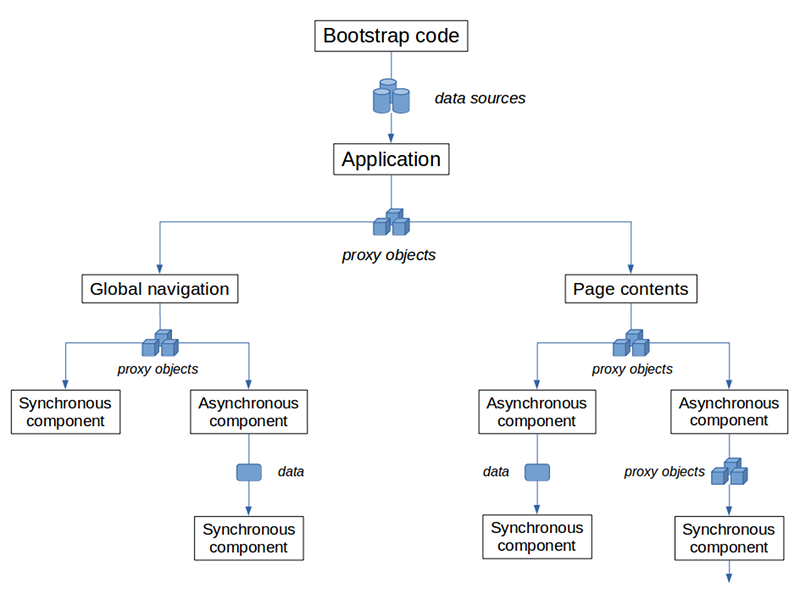
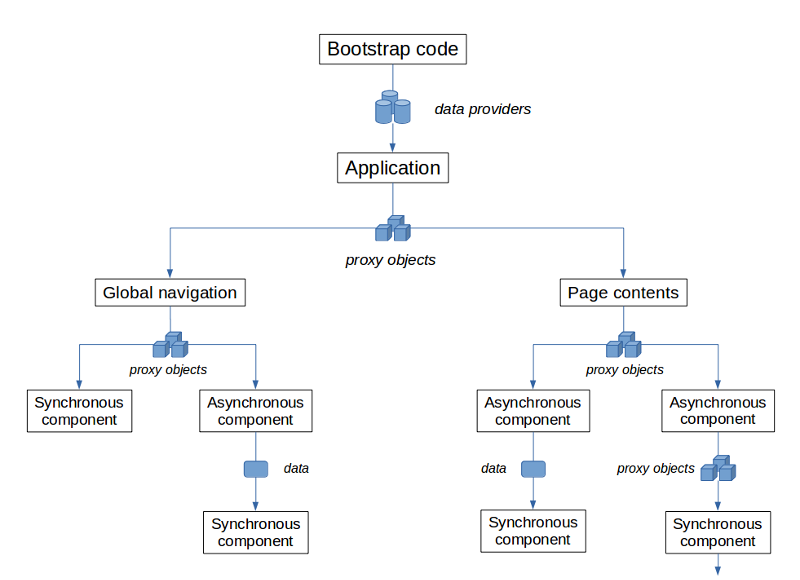
Changed "data source" to "data provider". Fixed typos and rephrased awkward sentences.

Changed region(s): [[0.0938, 0.031, 0.8125, 0.9621], [0.5938, 0.4345, 1.0, 0.9931], [0.0, 0.6207, 0.1562, 0.7448]]

diff --git a/README.md b/README.md
@@ -220,17 +220,17 @@ When there is no support for error boundaries (Preact, React 15 and below), Rela
 
 ## Building a full application
 
-Relaks is a simple, unopinionated component that can be used in a variety of situations. The following is a suggest model on how to build a complete application.
+Relaks is a simple, unopinionated component that can be used in a variety of situations. The following is a suggested model on how to build a complete application.
 
 ![Relaks model](docs/img/relaks-model.png)
 
 ### Bootstrapping
 
-The **Bootstrap code** is responsible for kick-starting the application. It's run right after the HTML page has loaded. It creates data sources, wait for them to become ready, then render the root React component into a DOM node. Here's the bootstrap code from [one of the example apps](https://github.com/chung-leong/relaks-starwars-example-sequel):
+Bootstrap code kick-starts an application. It's run right after the HTML page has loaded. It creates data providers, wait for them to become ready, then render the root React component into a DOM node. Here's the bootstrap code from [one of the example apps](https://github.com/chung-leong/relaks-starwars-example-sequel):
 
 ```javascript
 async function initialize(evt) {
-    // create data source
+    // create remote data source
     let dataSource = new DjangoDataSource({
         baseURL: 'https://swapi.co/api',
     });
@@ -254,21 +254,21 @@ async function initialize(evt) {
 }
 ```
 
-For an example of a more elaborate bootstrap sequence, see [app-core.js](https://github.com/chung-leong/trambar/blob/master/common/src/app-core.js) of the [Trambar](https://trambar.io) source code. The code does not merely create the data sources, it also handles interactions between them. Basically, it creates the infrastructure needed by the React UI code.
+For an example of a more elaborate bootstrap sequence, see [app-core.js](https://github.com/chung-leong/trambar/blob/master/common/src/app-core.js) of the [Trambar](https://trambar.io) source code. The code does not merely initialize the data providers, it also handles interactions between them. Basically, it's responsible for the infrastructure needed by the React UI code.
 
-### Data sources
+### Data providers
 
-A data source is simply an object that provides data needed by the app. It can do so synchronously or asynchronously (i.e. through promise-returning methods). It'll typically be an event emitter. When a data source wishes to indicate that new data is available, it'll emit a `change` event.
+A data provider is simply an object that provides data needed by the app. It can do so synchronously or asynchronously (i.e. through promise-returning methods). It'll typically be an event emitter. When a provider wishes to indicate that new data is available, it'll emit a `change` event.
 
-An example of a synchronous data source is [relaks-route-manager](https://github.com/chung-leong/relaks-route-manager). It extracts parameters from the browser's location. When the user clicks on a hyperlink or the back button, the current route changes. The route manager emits a `change` event and the application rerenders using new parameters extracted from the URL.
+An example of a synchronous data provider is [relaks-route-manager](https://github.com/chung-leong/relaks-route-manager). It extracts parameters from the browser's location. When the user clicks on a hyperlink or the back button, the current route changes. The route manager emits a `change` event and the application rerenders using new parameters extracted from the URL.
 
-An example of an asynchronous data source is [relaks-django-data-source](https://github.com/chung-leong/relaks-django-data-source). It retrieves data from a Django backend. It provides a set of `fetchXXX()` methods that return promises. When given an expiration interval, the data source will periodically invalidate cached results and emit a `change` event.
+An example of an asynchronous data provider is [relaks-django-data-source](https://github.com/chung-leong/relaks-django-data-source). It retrieves data from a Django backend. It provides a set of `fetchXXX()` methods that return promises. When given an expiration interval, the data source will periodically invalidate cached results and emit a `change` event.
 
-Data sources need not be coded specifically for Relaks. They're just classes that return data. They can be reused in other contexts (on the server side, for instance). The only requirement imposed by Relaks is the need for caching. Asynchronous methods should always return the same promise when give the same parameters unless the underlying data has changed. Otherwise a lot of redundant operations would occur every time the app rerenders.
+Data providers need not be coded specifically for Relaks. They're just classes that return data. They can be reused in other contexts (on the server side, for instance). The only requirement imposed by Relaks is the need for caching. Asynchronous methods should always return the same promise when give the same parameters unless the underlying data has changed. Otherwise a lot of redundant operations would occur whenever the app rerenders.
 
 ### Root-level component
 
-`Application` is the root-level React component. It receives a set of data sources as props. In its constructor, it creates proxy objects around the data source objects and save them into its state. These are then pass down the component tree in `render()` in lieu of the data sources themselves. In `componentDidMount()`, `Application` attaches event handlers to the data sources. When it receives a `change` event, it recreates the corresponding proxy. The call to `setState()` triggers rerendering. The `renderAsync()` methods of Relaks components are invoked, which in turn pulls in up-to-date data.
+`Application` is the root-level React component. It receives a set of data providers as props. In its constructor, it creates proxy objects around the data provider objects and save them into its state. These are then pass down the component tree in `render()` in lieu of the providers themselves. In `componentDidMount()`, `Application` attaches event handlers to the providers. When it receives a `change` event, it recreates the corresponding proxy. The call to `setState()` triggers rerendering. The `renderAsync()` methods of Relaks components are invoked, which in turn pulls in up-to-date data.
 
 From [one of the examples](https://github.com/chung-leong/relaks-starwars-example-sequel):
 
@@ -349,19 +349,19 @@ class Database {
 }
 ```
 
-The code above shows how you can implement certain pragmatics in a proxy object. For `getCategoryByID()`, we know that `catID` can be 0. In such a event we simply return a default category. We also choose to handle 404 error differently in the production environment. Instead of letting the error bubble up to the error boundary, leading to an error message, we'd simply show the default when a category has gone missing.
+The code above shows how you can implement certain pragmatics in a proxy object. For `getCategoryByID()`, we know that `catID` can be 0. In such an event we simply return a default category. We also choose to handle 404 error differently in the production environment. Instead of letting the error bubble up to an error boundary (leading to the unmounting of the component) we'd simply show the default when a category has gone missing.
 
-Proxy objects make debugging easier. You can easily stick `console.log()` and conditional `debugger` statements into your own code. You can find your own code in your app's source tree much more quickly than something deep inside `node_modules`.
+Proxy objects make debugging easier. You can easily stick `console.log()` and conditional `debugger` statements into your own code. You can find your source file far more quickly than something deep inside `node_modules` (especially if you choose not to generate sourcemap for libraries).
 
 ### Synchronous/Asynchronous pairs
 
-When a component needs data from an asynchronous data source (e.g. remote database), it extends `Relaks.AsynComponent` and implements `renderAsync()`. It's generally advisable to place the code for loading data in an asynchronous component and the code for drawing the user interface in a separate synchronous component. Doing so makes the code easier to debug and test. It also makes it easier to divide work among multiple programmers. Someone familiar with the backend code could work on the asynchronous part, while someone else who's more comfortable with UI design can focus on the synchronous part.
+When a component needs data from an asynchronous provider (e.g. remote database), it extends `Relaks.AsynComponent` and implements `renderAsync()`. It's generally advisable to place the code for fetching data in an asynchronous component and the code for drawing the user interface in a separate synchronous component. Doing so makes the code easier to debug and test. It also makes it easier to divide work among multiple programmers. Someone familiar with the backend code could work on the asynchronous part while someone else more comfortable with UI design can focus on the synchronous part.
 
 The following is a screen-cap of the [React Developer Tools](https://chrome.google.com/webstore/detail/react-developer-tools/fmkadmapgofadopljbjfkapdkoienihi?hl=en) showing the component tree of the [Trambar client app](https://live.trambar.io/). You can see that two of the components come in async/sync pairs:
 
 ![Trambar - News page](docs/img/trambar-news-page.png)
 
-`NewsPage` is the app's news feed page. It extends `Relaks.AsyncComponent`. Note on the right how it has received four data sources from `Application`. Its only child `NewsPageSync` is shown below:
+`NewsPage` is the app's news feed page. It extends `Relaks.AsyncComponent`. Note on the right how it has received four proxy objects from `Application`. Its only child `NewsPageSync` is shown below:
 
 ![Trambar - News page (sync)](docs/img/trambar-news-page-sync.png)
 
@@ -516,8 +516,8 @@ import { AsyncComponent } from 'relaks/preact';
 ## Libraries & add-ons
 
 * [relaks-route-manager](https://github.com/chung-leong/relaks-route-manager) - route manager
-* [relaks-django-data-source](https://github.com/chung-leong/relaks-django-data-source) - data source for Django REST backend
-* [relaks-harvest](https://github.com/chung-leong/relaks-harvest) - library for server-side rendering (SSR)
+* [relaks-django-data-source](https://github.com/chung-leong/relaks-django-data-source) - retrieves data through Django REST API
+* [relaks-harvest](https://github.com/chung-leong/relaks-harvest) - library used for server-side rendering (SSR)
 * [relaks-event-emitter](https://github.com/chung-leong/relaks-event-emitter) - event emitter designed with asynchronous code in mind
 
 ## Examples
